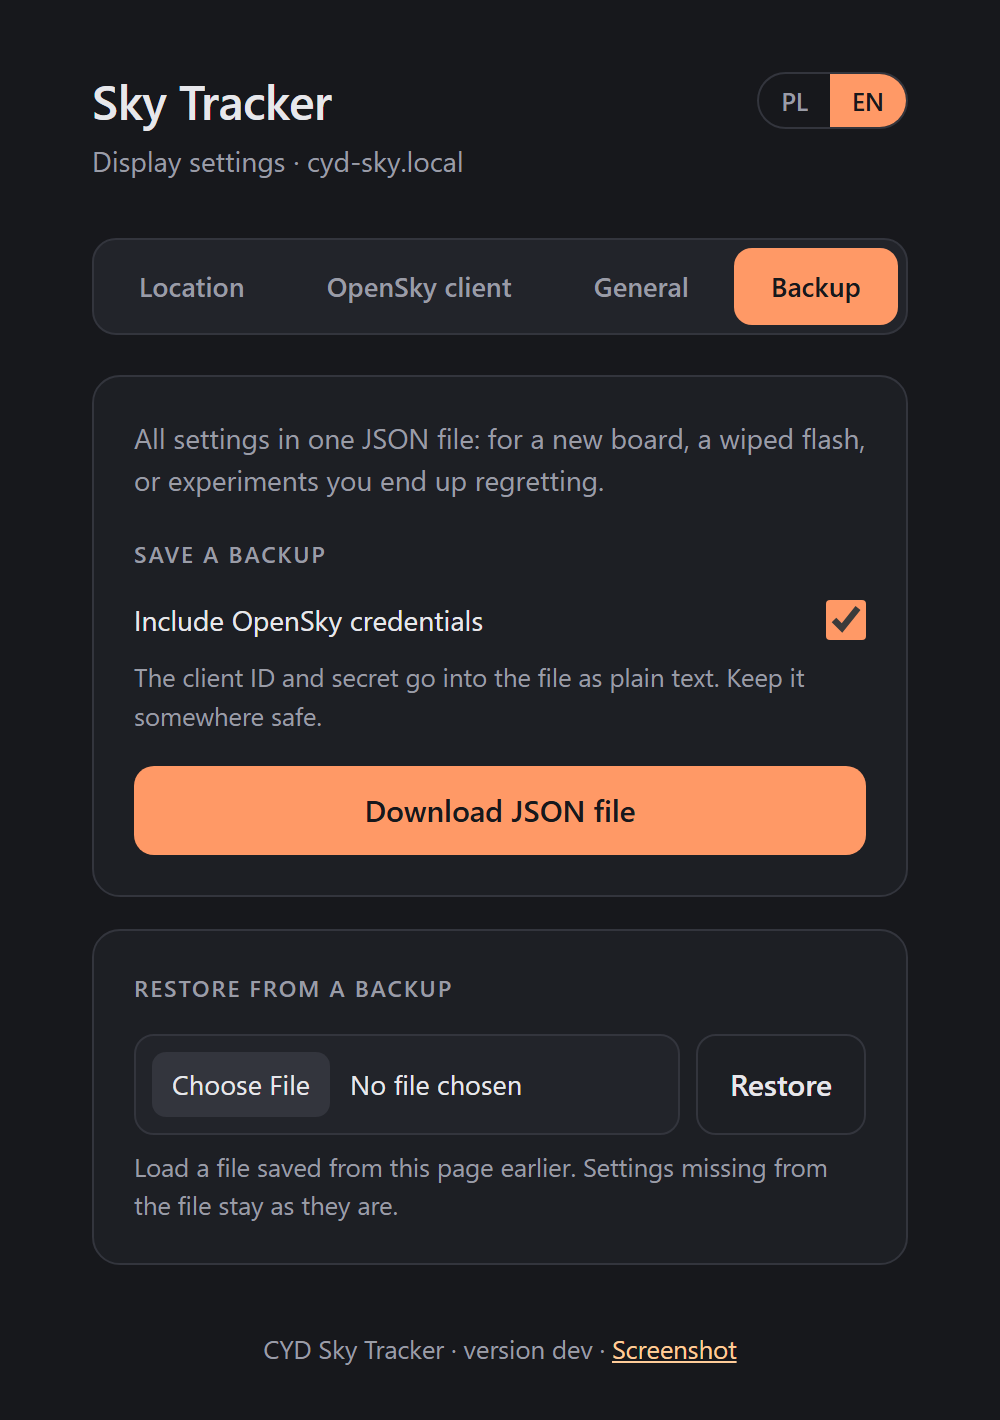
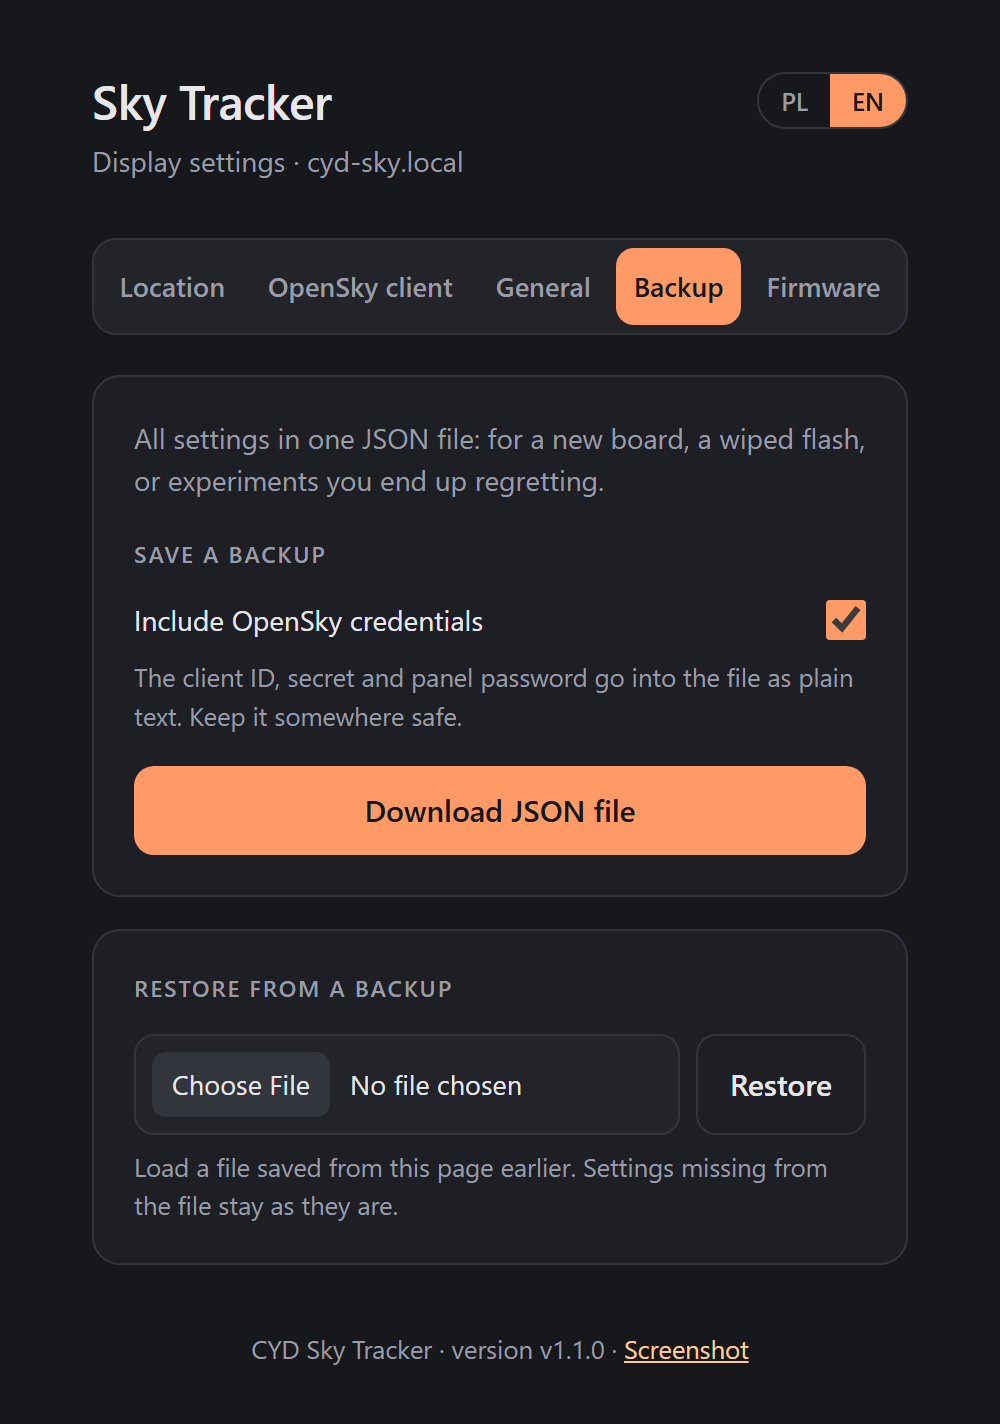
Fresh screenshots, Firmware tab and panel password on the project page

diff --git a/site/index.html b/site/index.html
@@ -181,6 +181,12 @@ height="0" width="0" style="display:none;visibility:hidden"></iframe></noscript>
           zaznacz <b>Erase device</b>. Aktualizacja? Zostaw odznaczone, a ustawienia
           zostaną.</span></li>
       </ol>
+      <p class="muted small">
+        <span class="en">The cable is only needed once. Later versions go in over WiFi, from
+          the <b>Firmware</b> tab of the settings page.</span>
+        <span class="pl">Kabel jest potrzebny tylko raz. Kolejne wersje wgrasz przez WiFi, z
+          zakładki <b>Firmware</b> w panelu ustawień.</span>
+      </p>
     </div>
 
     <div class="card install">
@@ -270,11 +276,47 @@ height="0" width="0" style="display:none;visibility:hidden"></iframe></noscript>
       zaznaczonym <i>Dołącz dane logowania OpenSky</i> sekret klienta leży w pliku zwykłym
       tekstem, więc traktuj go jak hasło.</p>
   </div>
+  <div class="card backup-note">
+    <h3><span class="en">New: the Firmware tab, or updates without the cable</span><span class="pl">Nowość: zakładka Firmware, czyli aktualizacje bez kabla</span></h3>
+    <p class="en">Download <code>cyd-sky-tracker-&lt;version&gt;.bin</code> from
+      <a href="https://github.com/alasota/CYD-Flight-Tracker/releases/latest">the latest release</a>
+      (not the <code>-full.bin</code> one), open the <b>Firmware</b> tab, pick the file, press
+      <b>Update</b>. A progress bar shows on the page and on the display; half a minute later the
+      board restarts with the new version and every setting where you left it. Files that aren't
+      Sky Tracker firmware are refused, a cut connection leaves the old version running, and a
+      version that crashes on start rolls itself back to the previous one.</p>
+    <p class="pl">Pobierz <code>cyd-sky-tracker-&lt;wersja&gt;.bin</code> z
+      <a href="https://github.com/alasota/CYD-Flight-Tracker/releases/latest">najnowszego wydania</a>
+      (nie ten z <code>-full.bin</code>), otwórz zakładkę <b>Firmware</b>, wybierz plik, naciśnij
+      <b>Aktualizuj</b>. Pasek postępu widać na stronie i na wyświetlaczu; pół minuty później
+      płytka wstaje z nową wersją, a ustawienia zostają tam, gdzie je zostawiłeś. Pliki, które nie
+      są firmware Sky Trackera, zostaną odrzucone, zerwane połączenie zostawia starą wersję, a
+      wersja, która wywraca się przy starcie, sama wraca do poprzedniej.</p>
+  </div>
+  <div class="card backup-note">
+    <h3><span class="en">Set a panel password (recommended)</span><span class="pl">Ustaw hasło do panelu (zalecane)</span></h3>
+    <p class="en">Out of the box the settings page is open, so the first setup just works. That
+      also means anyone on your WiFi can change the settings or flash their own firmware. Fix it in
+      <b>General → Panel access</b>: type a password twice (8–64 characters) and save. The browser
+      then asks for it (login <code>admin</code>); five wrong tries lock the page for a minute.
+      Forgot it? Hold a finger on the screen while the board powers up, wait 5 seconds and tap
+      <b>YES</b>. The page is still plain HTTP, so it keeps housemates out, not a determined
+      network snoop: use a password you don't use anywhere else.</p>
+    <p class="pl">Na start panel ustawień jest otwarty, żeby pierwsza konfiguracja po prostu
+      działała. To znaczy też, że każdy w Twoim WiFi może zmienić ustawienia albo wgrać własny
+      firmware. Napraw to w <b>Ogólne → Dostęp do panelu</b>: wpisz hasło dwa razy (8–64 znaki) i
+      zapisz. Przeglądarka będzie o nie pytać (login <code>admin</code>); pięć błędnych prób blokuje
+      stronę na minutę. Zapomniałeś? Przytrzymaj palec na ekranie przy włączaniu płytki, odczekaj
+      5 sekund i stuknij <b>TAK</b>. Strona to wciąż zwykłe HTTP, więc hasło trzyma z dala
+      domowników, a nie zdeterminowanego podsłuchiwacza w sieci: użyj hasła, którego nie używasz
+      nigdzie indziej.</p>
+  </div>
   <div class="grid4 web-shots">
-    <img src="screenshots/web_location.png" width="1000" height="1591" alt="Settings page, Location tab" loading="lazy">
-    <img src="screenshots/web_opensky.png" width="1000" height="2094" alt="Settings page, OpenSky client tab" loading="lazy">
-    <img src="screenshots/web_general.png" width="1000" height="2193" alt="Settings page, General tab" loading="lazy">
-    <img src="screenshots/web_backup.png" width="1000" height="1420" alt="Settings page, Backup tab" loading="lazy">
+    <img src="screenshots/web_location.png" width="1000" height="1465" alt="Settings page, Location tab" loading="lazy">
+    <img src="screenshots/web_opensky.png" width="1000" height="2320" alt="Settings page, OpenSky client tab" loading="lazy">
+    <img src="screenshots/web_general.png" width="1000" height="2813" alt="Settings page, General tab with the panel password" loading="lazy">
+    <img src="screenshots/web_backup.png" width="1000" height="1424" alt="Settings page, Backup tab" loading="lazy">
+    <img src="screenshots/web_firmware.png" width="1000" height="1446" alt="Settings page, Firmware tab: update over WiFi" loading="lazy">
   </div>
 </section>
 
@@ -376,13 +418,13 @@ height="0" width="0" style="display:none;visibility:hidden"></iframe></noscript>
     </details>
     <details class="card">
       <summary><span class="en">Is it production-ready?</span><span class="pl">Czy to jest gotowe na produkcję?</span></summary>
-      <p class="en">It's barbecue-ready. The settings page has no login and shows your OpenSky
-        secret to anyone who looks (so does a backup file saved with credentials), so keep the
-        board on a network you trust and the backup somewhere private. And please don't land
+      <p class="en">It's barbecue-ready. Set a panel password (it's off until you do), keep the
+        board on a network you trust, and keep a backup saved with credentials somewhere private:
+        it holds your OpenSky secret and the password as plain text. And please don't land
         anything based on it.</p>
-      <p class="pl">Jest gotowe na grilla. Panel ustawień nie ma logowania i pokaże sekret
-        OpenSky każdemu, kto zajrzy (podobnie plik kopii zapisany z danymi logowania), więc trzymaj
-        płytkę w zaufanej sieci, a kopię w prywatnym miejscu. I proszę, nie lądujcie niczym na jego
+      <p class="pl">Jest gotowe na grilla. Ustaw hasło do panelu (domyślnie go nie ma), trzymaj
+        płytkę w zaufanej sieci, a kopię zapisaną z danymi logowania w prywatnym miejscu: sekret
+        OpenSky i hasło leżą w niej zwykłym tekstem. I proszę, nie lądujcie niczym na jego
         podstawie.</p>
     </details>
   </div>

diff --git a/site/style.css b/site/style.css
@@ -132,7 +132,7 @@ ol.steps li::before {
 .grid4 { display: grid; grid-template-columns: repeat(4, 1fr); gap: 16px; }
 .backup-note { max-width: 860px; margin: 28px auto 0; }
 .backup-note p { margin: 0; color: #c9cad1; }
-.web-shots { margin: 28px auto 0; max-width: 1000px; align-items: start; }
+.web-shots { margin: 28px auto 0; max-width: 1100px; align-items: start; grid-template-columns: repeat(5, 1fr); }
 .web-shots img { border-radius: 12px; border: 1px solid var(--line); }
 
 /* ---- roadmap */

diff --git a/README.md b/README.md
@@ -194,14 +194,16 @@ the display, which has its own setting on the General tab.
   <tr>
     <td align="center"><img src="docs/screenshots/web_location.png" width="200" alt="Settings page, Location tab: latitude, longitude, scan radius and credits per request"></td>
     <td align="center"><img src="docs/screenshots/web_opensky.png" width="200" alt="Settings page, OpenSky client tab: account status, client ID and secret, credentials file upload, refresh interval and daily credit estimate"></td>
-    <td align="center"><img src="docs/screenshots/web_general.png" width="200" alt="Settings page, General tab: display and web panel language, screen cycling, flight-phase thresholds"></td>
+    <td align="center"><img src="docs/screenshots/web_general.png" width="200" alt="Settings page, General tab: display and web panel language, screen cycling, flight-phase thresholds, panel password"></td>
     <td align="center"><img src="docs/screenshots/web_backup.png" width="200" alt="Settings page, Backup tab: download settings as JSON, restore from a file"></td>
+    <td align="center"><img src="docs/screenshots/web_firmware.png" width="200" alt="Settings page, Firmware tab: installed version, firmware file upload and Update button"></td>
   </tr>
   <tr>
     <td align="center"><b>Location</b></td>
     <td align="center"><b>OpenSky client</b></td>
     <td align="center"><b>General</b></td>
     <td align="center"><b>Backup</b></td>
+    <td align="center"><b>Firmware</b></td>
   </tr>
 </table>
 
